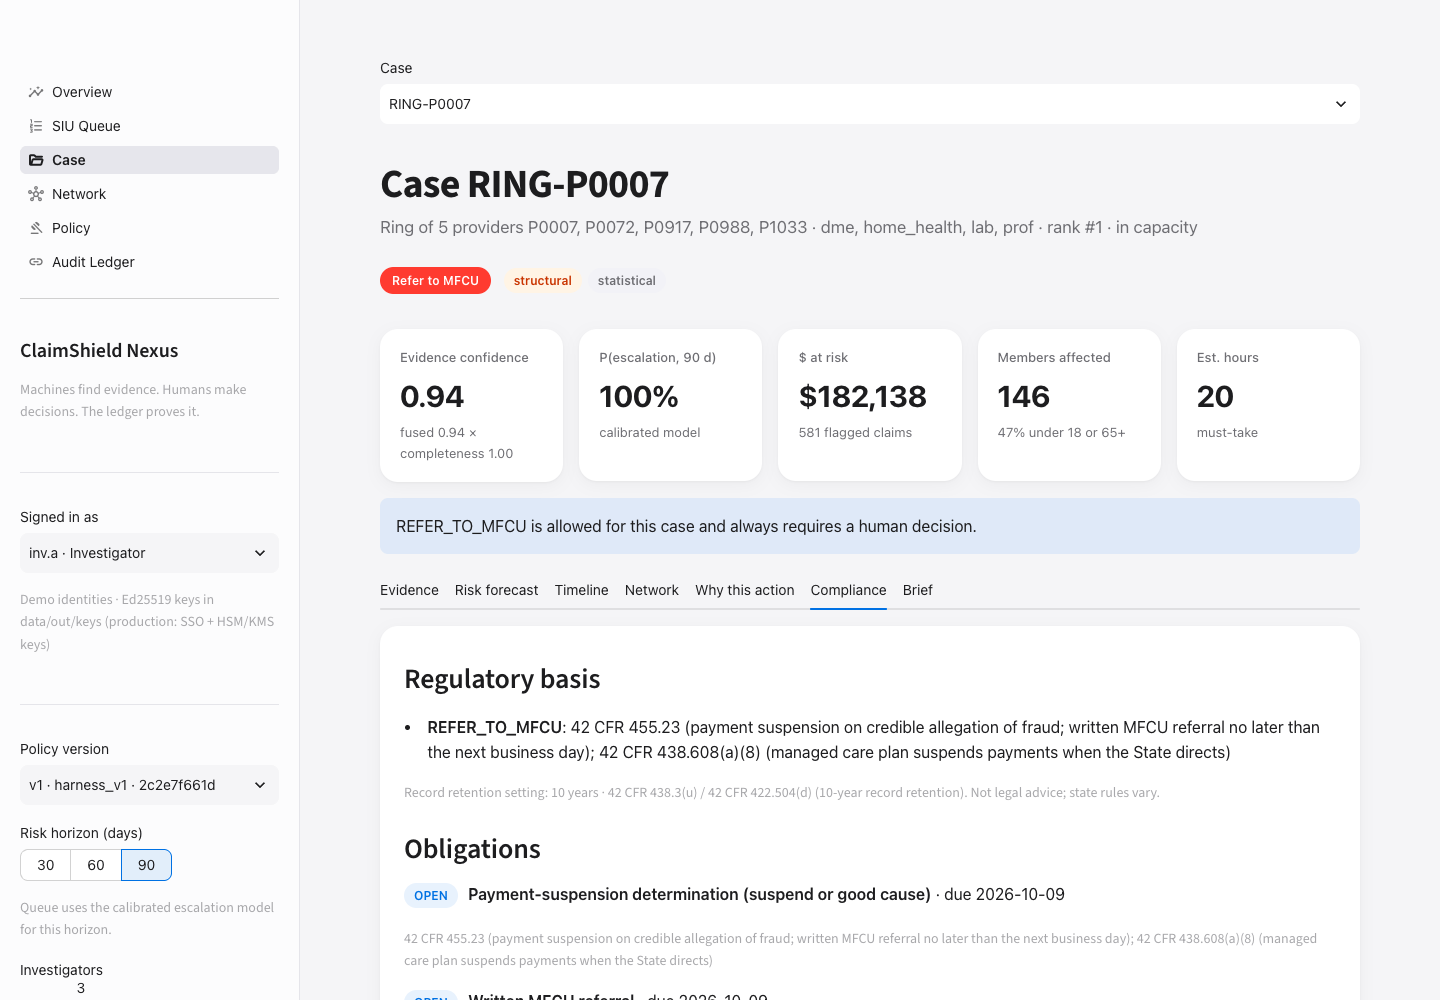
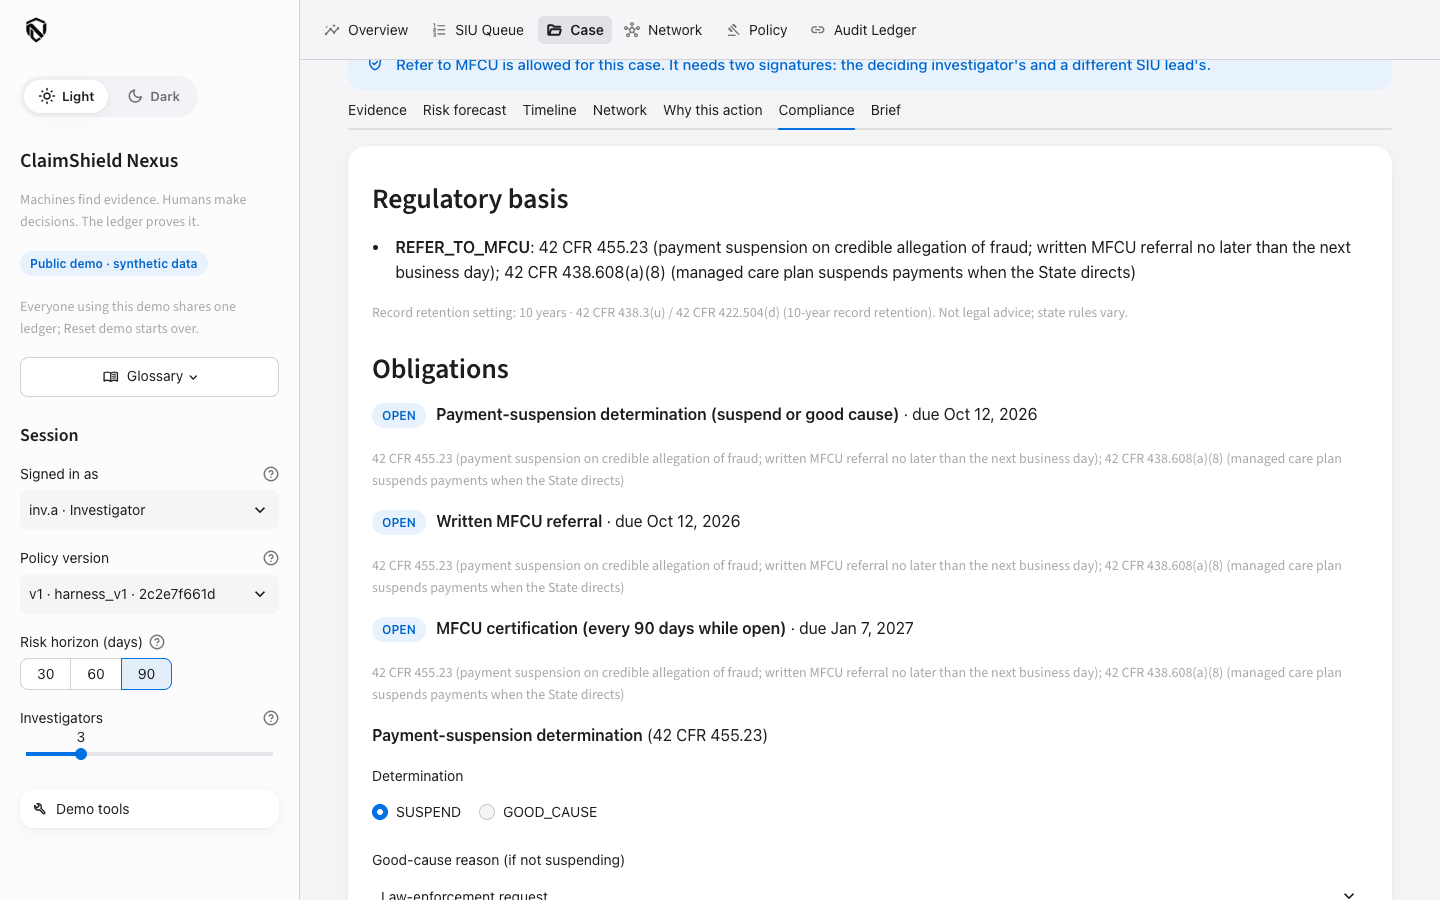
docs: refresh screenshots

diff --git a/DEMO.md b/DEMO.md
@@ -1,4 +1,4 @@
-# Demo script (about 4 minutes 15 seconds)
+# Demo script (about 4 minutes 25 seconds)
 
 Setup: app open on **Overview**, sidebar signed in as **inv.a**, 3 investigators, 90-day horizon, policy v1 (signed by siu.lead at reset). Fresh ledger (see the checklist at the end).
 
@@ -8,10 +8,11 @@ Setup: app open on **Overview**, sidebar signed in as **inv.a**, 3 investigators
 | 0:35–1:00 | SIU Queue | Note *Over capacity* = 9. Drag **Investigators** in the sidebar from 3 to 5. | "The queue is sized to real hours. With 5 investigators every MFCU referral fits (MFCU over-capacity 3 → 0); the 5 still over capacity are flagged for the SIU lead, never dropped." |
 | 1:00–1:35 | Case | **Open case** → `RING-P0007`. **Evidence** tab (scroll to the masked members), then **Network** tab (toggle the ego graph). | "Five providers share one owner, address and bank, with referral loops. Every row cites claim, field, value and expected value, and member identities stay masked unless someone records a reason." |
 | 1:35–1:55 | Case | **Risk forecast** tab, then **Brief** → **Generate brief** → **Download .html**. | "The forecast is an early warning, not evidence. The brief is a deterministic template with the regulatory basis and the authorisation chain; its SHA-256 is in the ledger." |
-| 1:55–2:40 | Case | As **inv.a**: action `REFER_TO_MFCU`, reason `EVIDENCE_CORROBORATED` → **Sign & submit** (status: pending approval). Sidebar **Signed in as** → **siu.lead** → **Approve (second signature)**. Open the **Compliance** tab. | "The investigator signs a decision bound to this exact case, evidence and policy. MFCU referral is dual control: it only executes when a different SIU lead signs. Now the obligations appear: suspension determination and written MFCU referral due the next business day, certification every 90 days." |
+| 1:55–2:40 | Case | As **inv.a**: action **Refer to MFCU**, reason `EVIDENCE_CORROBORATED` → **Sign & submit** (status: pending approval). Sidebar **Signed in as** → **siu.lead** → **Approve (second signature)**. Open the **Compliance** tab. | "The investigator signs a decision bound to this exact case, evidence and policy. MFCU referral is dual control: it only executes when a different SIU lead signs. Now the obligations appear: suspension determination and written MFCU referral due the next business day, certification every 90 days." |
 | 2:40–3:20 | Policy | Still as **siu.lead**: set **Abstain** 0.40, **E/M upcoding path: statistical score floor** 0.55, **min confidence** 0.40 → **Preview impact** → reason → **Sign & save as new version**. | "Humans define the rules: upcoders at prepay review go from 1 to 5 with zero clean providers escalated. Saving signs the new version; an unsigned policy blocks every decision." |
 | 3:20–4:00 | Audit Ledger | **Verify chain** and **Verify signatures** (both green). **Demo controls** → **Simulate tamper** on the `decision_mandate` block (its number is in the signatures table) → **Verify chain** and **Verify signatures** again. | "Change one byte and both checks point to the same block: the hash chain breaks and the Ed25519 signature no longer verifies." |
-| 4:00–4:15 | — | — | "Machines find evidence. Humans make decisions. The ledger proves it." |
+| 4:00–4:15 | Any | Sidebar **Light / Dark** toggle. | "Light or dark, it stays readable: every colour pair passes WCAG AA, and the choice sticks across pages." |
+| 4:15–4:25 | — | — | "Machines find evidence. Humans make decisions. The ledger proves it." |
 
 Backup answers:
 - *Does the model beat the baseline?* No, not on already-flagged providers: a naive "flagged before" persistence baseline is as good or better, and we show both on Overview. The forecast is an early warning for providers without flag history. Train/test leakage was found and fixed with an embargo; the numbers shown are post-fix. It ranks the queue but never counts as evidence.

diff --git a/README.md b/README.md
@@ -58,7 +58,7 @@ Medicaid program-integrity teams get far more fraud, waste and abuse (FWA) signa
 
 ## Screenshots
 
-Light mode shown. The app follows each visitor's system light/dark setting (black logo in light mode, white logo in dark mode) and switches live if the setting changes.
+Light and dark themes: the app follows the visitor's system setting, and the **Light / Dark** toggle at the top of the sidebar overrides it (kept in the URL across pages and refreshes). Body text meets WCAG AA contrast in both themes (enforced by `tests/test_contrast.py`).
 
 <table>
   <tr>
@@ -72,6 +72,17 @@ Light mode shown. The app follows each visitor's system light/dark setting (blac
   <tr>
     <td><img src="docs/img/policy.png" alt="Policy page"><br><sub><b>Policy</b> — humans edit thresholds, preview the impact, then save a new hashed version.</sub></td>
     <td><img src="docs/img/ledger.png" alt="Audit ledger page"><br><sub><b>Audit Ledger</b> — SHA-256 hash chain plus Ed25519 signature verification of every mandate.</sub></td>
+  </tr>
+  <tr>
+    <td><img src="docs/img/overview.png" alt="Overview page, light theme"><br><sub><b>Light</b> — Overview.</sub></td>
+    <td><img src="docs/img/dark/overview.png" alt="Overview page, dark theme"><br><sub><b>Dark</b> — Overview.</sub></td>
+  </tr>
+  <tr>
+    <td><img src="docs/img/dark/case.png" alt="Case page, dark theme"><br><sub><b>Dark</b> — ring case, Compliance tab.</sub></td>
+    <td><img src="docs/img/dark/network.png" alt="Network page, dark theme"><br><sub><b>Dark</b> — Network.</sub></td>
+  </tr>
+  <tr>
+    <td colspan="2"><img src="docs/img/dark/ledger.png" alt="Audit ledger page, dark theme" width="50%"><br><sub><b>Dark</b> — Audit Ledger after Verify signatures.</sub></td>
   </tr>
 </table>
 
